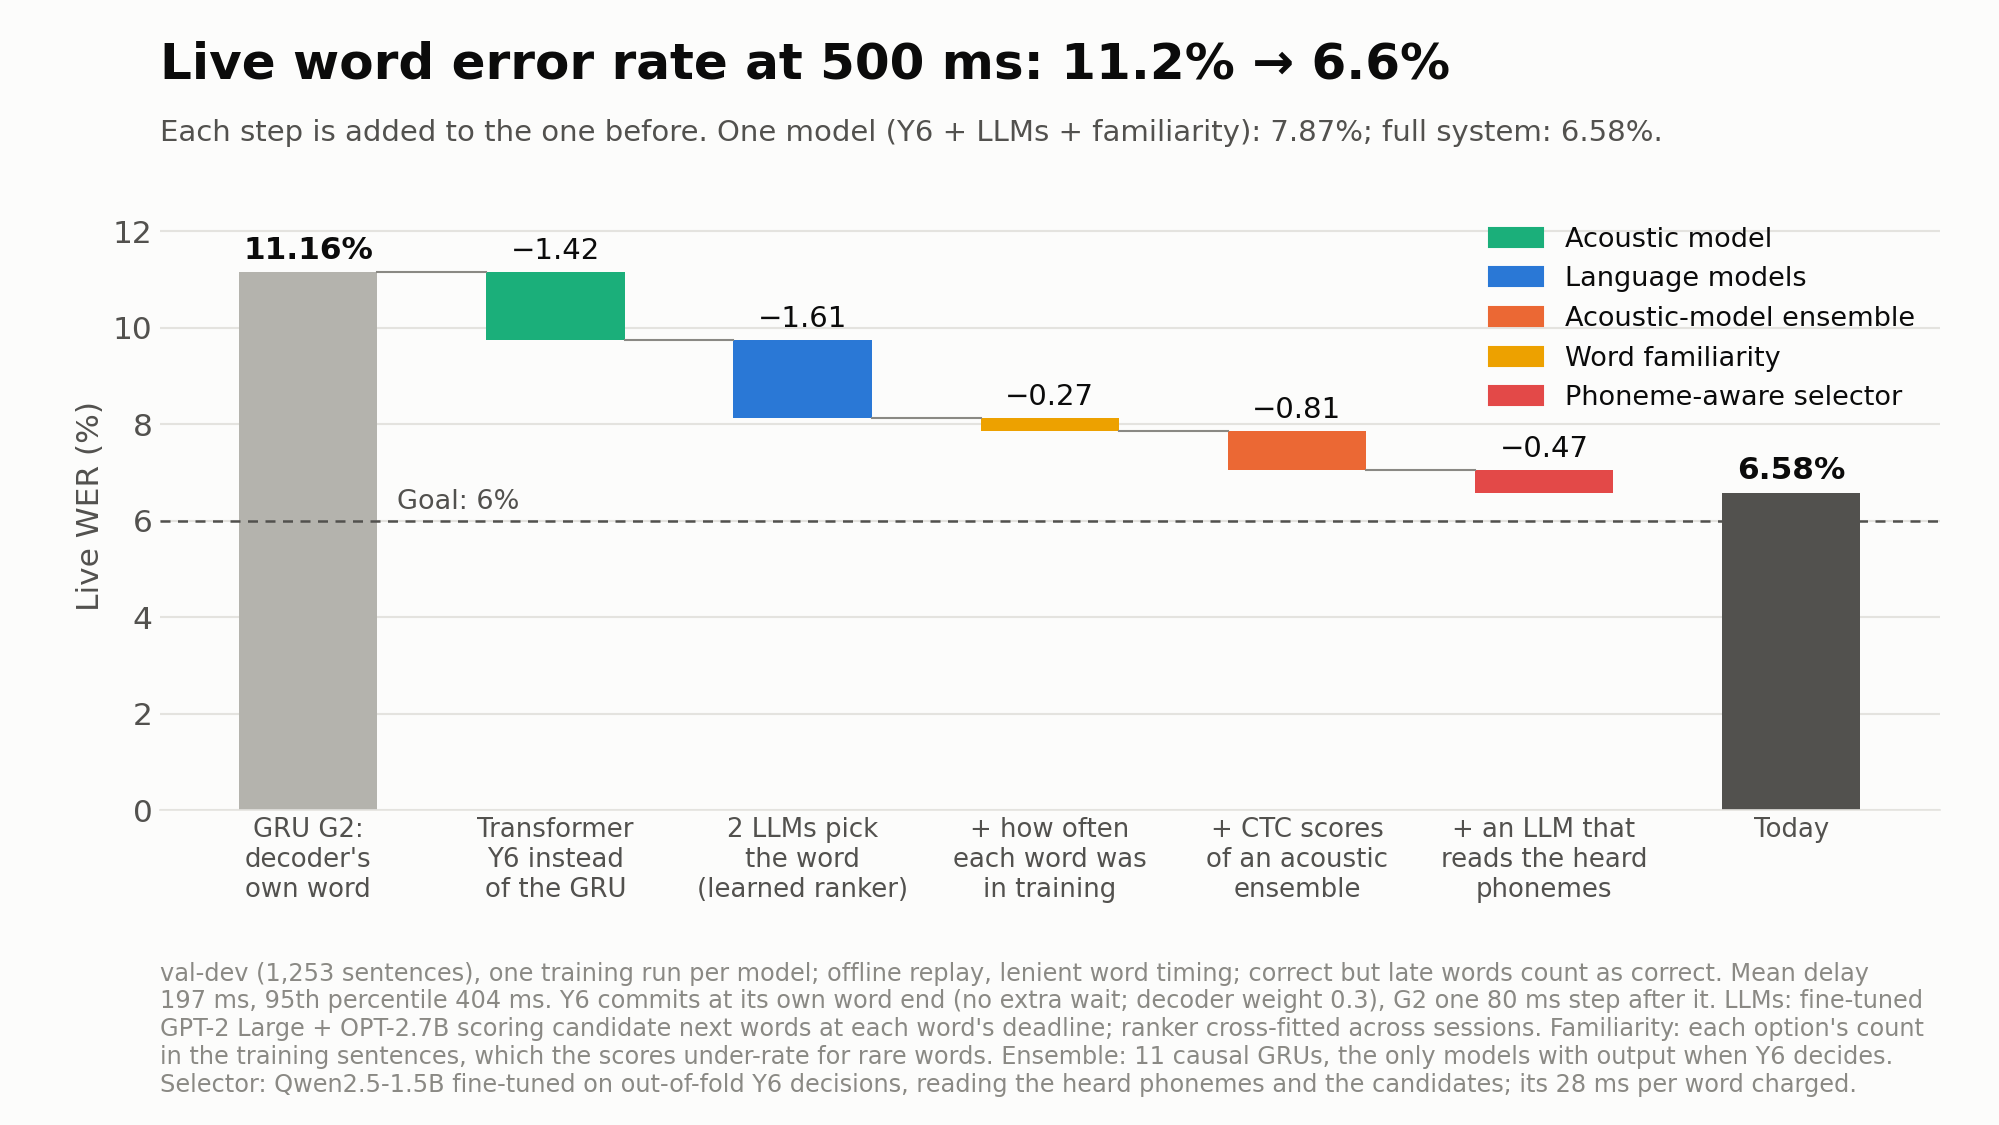
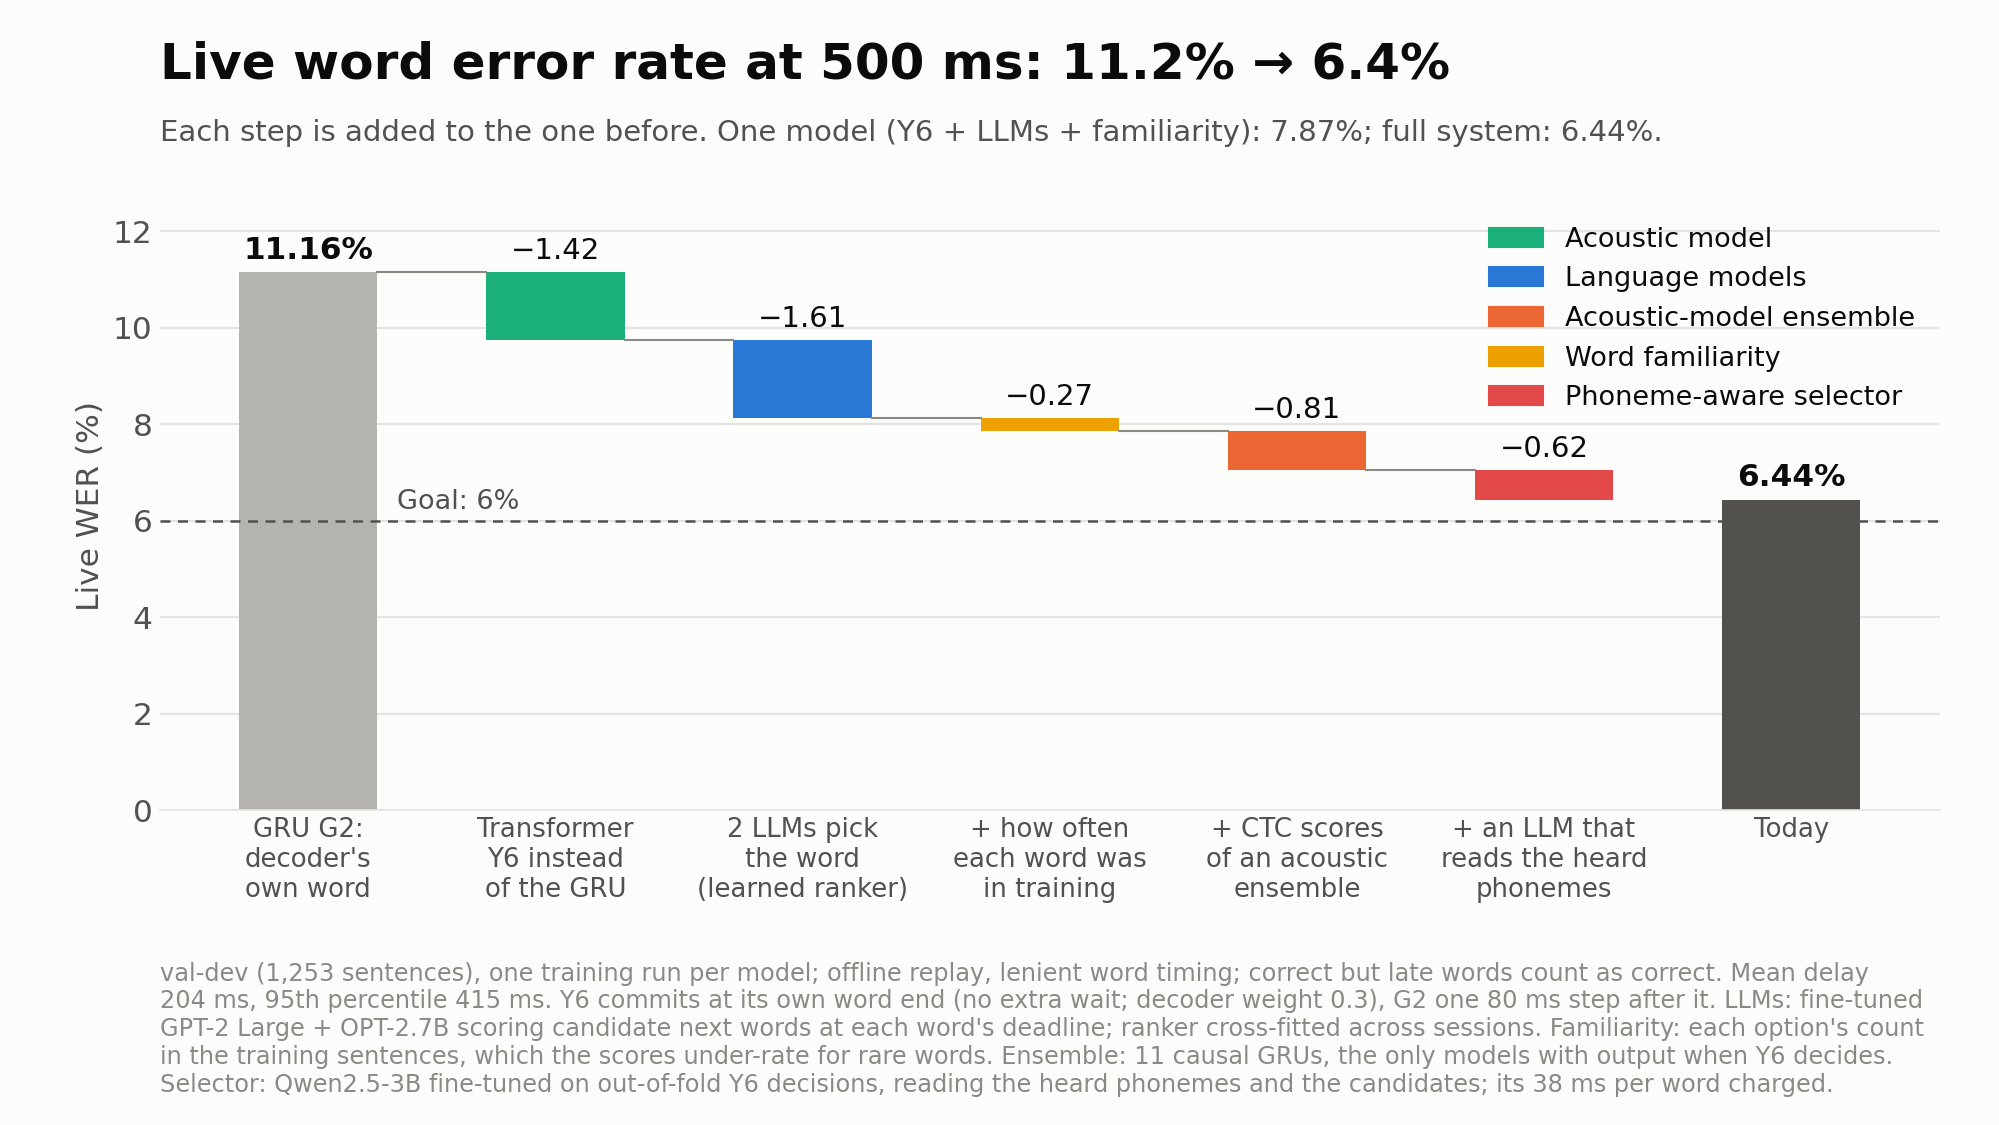
Qwen2.5-3B selector: full system 6.44% at 500 ms and 6.22% at 1.5 s, lower than the 1.5B on every split

diff --git a/README.md b/README.md
@@ -13,14 +13,14 @@ shown within 200 ms, 500 ms or 1.5 s of the moment the participant finished atte
 
 <picture>
   <source media="(prefers-color-scheme: dark)" srcset="docs/images/dark/02_best_possible.png">
-  <img src="docs/images/light/02_best_possible.png" alt="Bar chart of the best word error rate at each time limit. Live words: 8.36% at 200 ms (mean delay 76 ms), 6.58% at 500 ms (197 ms), 6.29% at 1.5 s (987 ms). After the sentence: 4.28%, against 2.24% if the best sentence in the decoder's list were always picked. Goal: 6%.">
+  <img src="docs/images/light/02_best_possible.png" alt="Bar chart of the best word error rate at each time limit. Live words: 8.36% at 200 ms (mean delay 76 ms), 6.44% at 500 ms (204 ms), 6.22% at 1.5 s (993 ms). After the sentence: 4.28%, against 2.24% if the best sentence in the decoder's list were always picked. Goal: 6%.">
 </picture>
 
 | Time limit after the word ends | One model | Full system | Mean delay | Deciding model |
 |---|---|---|---|---|
 | 200 ms | 8.84% | 8.36% | 76 ms | GRU D1 (causal) |
-| 500 ms | 7.47% | 6.58% | 197 ms | Transformer Y6 |
-| 1.5 s | 7.38% | 6.29% | 987 ms | Transformer Y6 |
+| 500 ms | 7.47% | 6.44% | 204 ms | Transformer Y6 |
+| 1.5 s | 7.38% | 6.22% | 993 ms | Transformer Y6 |
 | After the sentence (not the target) | 5.06% | 4.28% | - | Transformer Y6, its 100 best sentences rescored |
 
 A live result passes its time limit when 95% of words are final within it; a correct word that arrives late still
@@ -35,7 +35,9 @@ its 28 ms per word charged it lowers live WER by 0.36-0.48 at 500 ms and 0.22-0.
 on close decisions (29% of them, where the two best candidates score within a margin), which keeps 96% of words in
 time and lowers WER by 0.28-0.42. The "full system" adds the CTC scores of an
 ensemble of acoustic models (11 causal GRUs at 200 ms and 500 ms, and at 1.5 s 22 GRUs, 3 Transformers and Y6 with
-three extra CTC inputs). It runs only with the best model that meets each limit. After the sentence, a learned rescorer combines GPT-2 Large with the
+three extra CTC inputs) and, at 500 ms and 1.5 s, a larger selector, Qwen2.5-3B (38 ms per word): 7.06% -> 6.44% and
+6.51% -> 6.22%, lower than the 1.5B on every session split. The full system runs only with the best model that meets
+each limit; the one-model column uses the 1.5B selector, as the GRU comparison below does. After the sentence, a learned rescorer combines GPT-2 Large with the
 same inputs over Y6's 100 best sentences (GPT-2 Large alone: 5.47%). The exact sentence is in that list for 89% of
 sentences, and always picking the closest one would give 2.24%, so better choosing has room left.
 
@@ -65,7 +67,7 @@ A second track on the Makin lab's ECoG dataset is intended; access and integrati
 
 <picture>
   <source media="(prefers-color-scheme: dark)" srcset="docs/images/dark/01_live_wer_waterfall_500ms.png">
-  <img src="docs/images/light/01_live_wer_waterfall_500ms.png" alt="Waterfall chart of live word error rate at 500 ms: GRU G2's own words 11.16%; Transformer Y6 instead of the GRU -1.42; two language models choosing the word -1.61; word familiarity -0.27 (one model: 7.87%); CTC scores of an acoustic-model ensemble -0.81; an LLM that reads the heard phonemes -0.47; result 6.58%.">
+  <img src="docs/images/light/01_live_wer_waterfall_500ms.png" alt="Waterfall chart of live word error rate at 500 ms: GRU G2's own words 11.16%; Transformer Y6 instead of the GRU -1.42; two language models choosing the word -1.61; word familiarity -0.27 (one model: 7.87%); CTC scores of an acoustic-model ensemble -0.81; an LLM that reads the heard phonemes -0.62; result 6.44%.">
 </picture>
 
 ### GRU or Transformer, one acoustic model each

diff --git a/docs/PLAN.md b/docs/PLAN.md
@@ -1,8 +1,8 @@
 # Streaming neural decoding plan — updated 2026-11-19
 
-**Where things stand (2026-11-19 afternoon):** live-word WER is 8.36 / 6.58 / 6.29% at 200 ms / 500 ms / 1.5 s on val-dev
-with one decoder (mean delay 76 / 197 / 987 ms), all three with the fine-tuned phoneme-aware selector (step 1; at 200 ms
-only on close decisions; 8.64 / 7.06 / 6.51 without it), against a target of below 6% (`current_knowledge.md` section 0, which also holds every result and
+**Where things stand (2026-11-19 afternoon):** live-word WER is 8.36 / 6.44 / 6.22% at 200 ms / 500 ms / 1.5 s on val-dev
+with one decoder (mean delay 76 / 204 / 993 ms), all three with the fine-tuned phoneme-aware selector (step 1; Qwen2.5-3B
+at 500 ms and 1.5 s, the 1.5B on close decisions at 200 ms; 8.64 / 7.06 / 6.51 without it), against a target of below 6% (`current_knowledge.md` section 0, which also holds every result and
 the ledger of what was tried). A second decoder's votes (without the selector) gave 6.77 / 6.48. The 500 ms and 1.5 s results come from the Y6_1
 average deciding the words, with word-familiarity features in the ranker. After the sentence, a learned rescorer with
 the CTC ensemble and familiarity reaches 4.28% (GPT-2 Large alone 5.47%; best sentence in the list 2.24%). Y13 reaches
